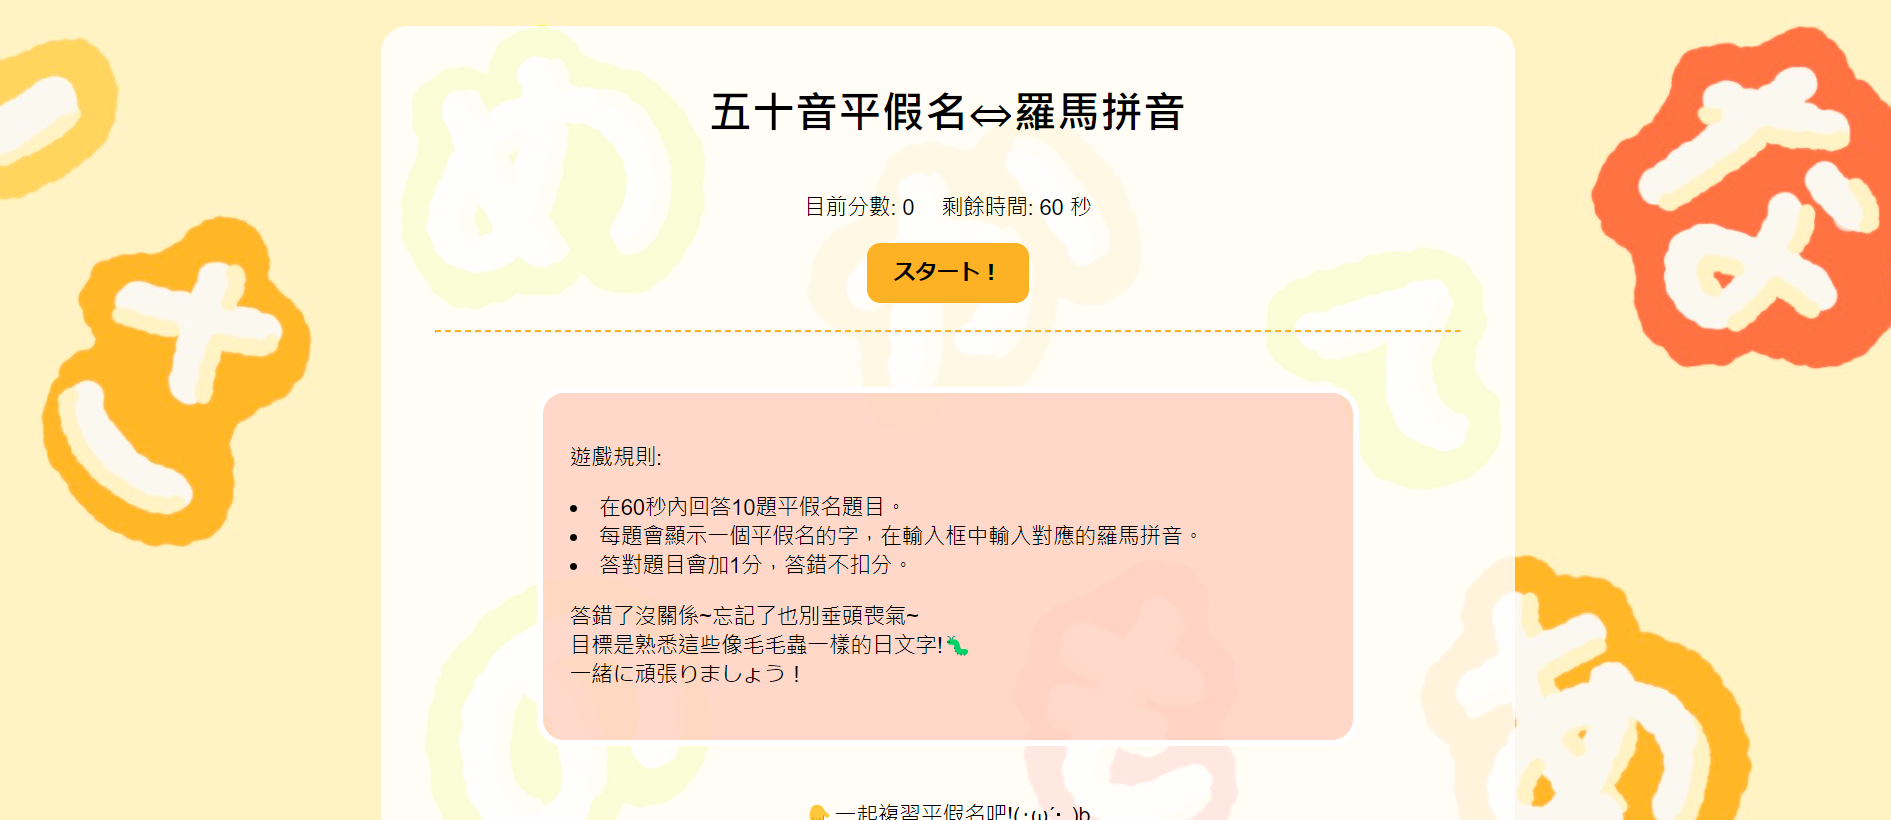
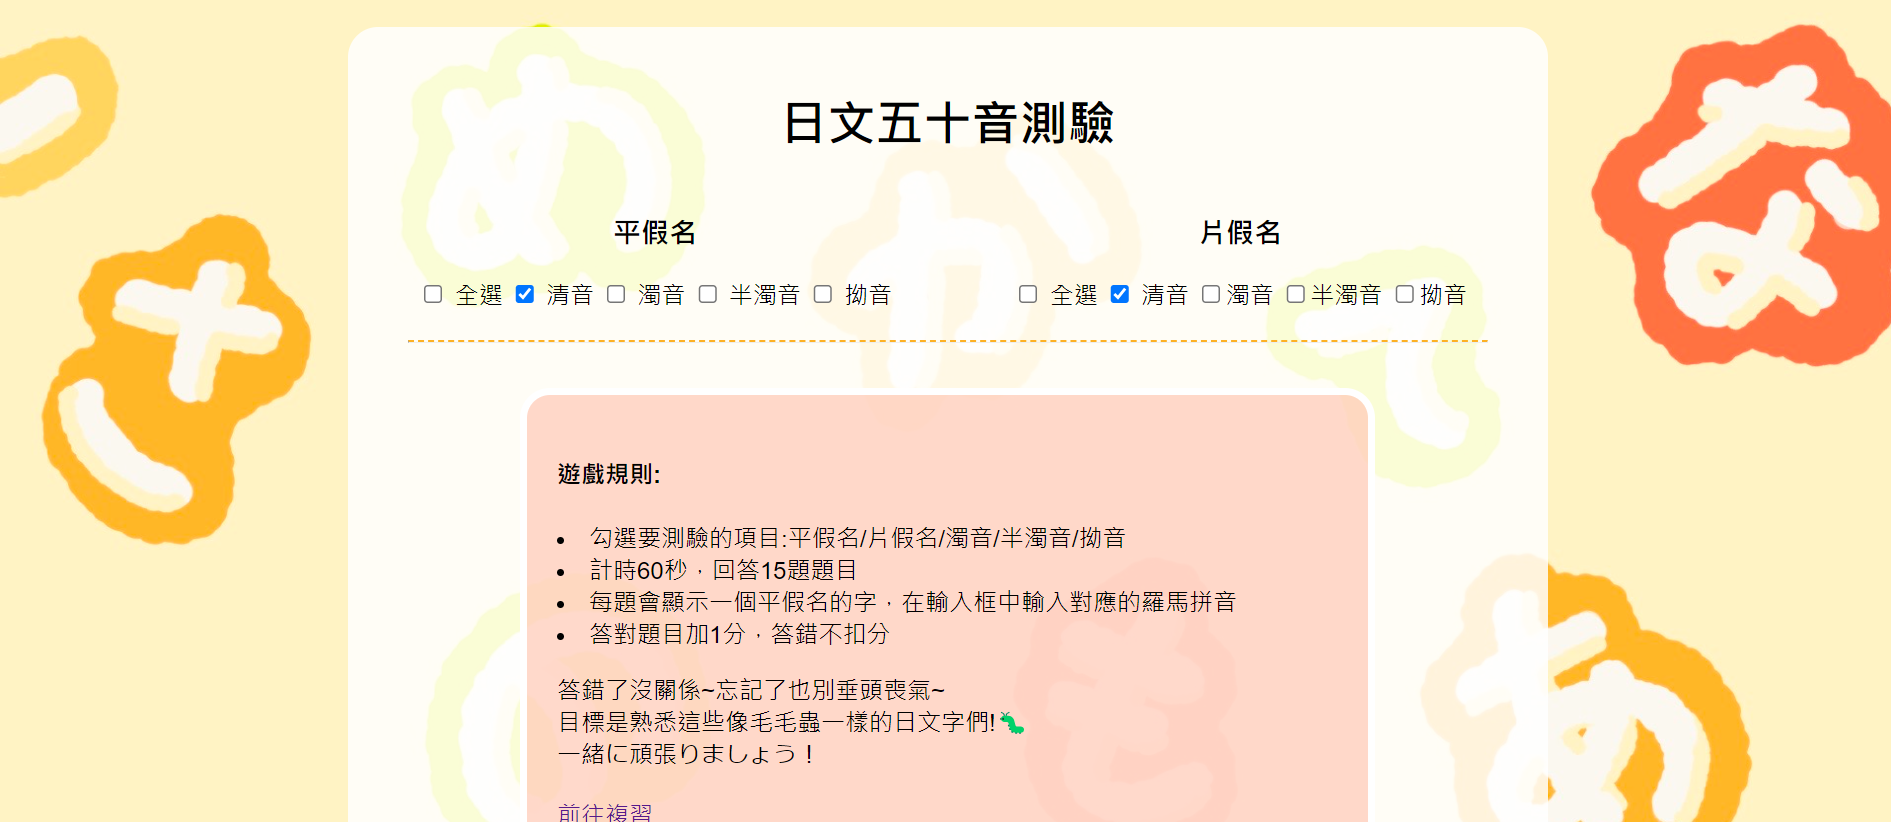
fix: 圖片路徑問題&readme文件

diff --git a/index.html b/index.html
@@ -5,7 +5,7 @@
     <meta charset="UTF-8">
     <meta name="viewport" content="width=device-width, initial-scale=1.0">
     <title>日文五十音測驗</title>
-    <link rel="icon" href="/image/icon.png">
+    <link rel="icon" href="./image/icon.png">
     <link rel="stylesheet" href="./css/index.css">
 </head>
 

diff --git a/css/form.css b/css/form.css
@@ -1,5 +1,5 @@
 body {
-    background-image: url(/image/background.jpg);
+    background-image: url(../image/background.jpg);
     background-size: cover;
     margin: 0;
     padding: 20px;

diff --git a/css/index.css b/css/index.css
@@ -3,7 +3,7 @@
 }
 
 body {
-  background-image: url(/image/background.jpg);
+  background-image: url(../image/background.jpg);
   background-size: cover;
   margin: 0;
   padding: 20px;

diff --git a/README.md b/README.md
@@ -1,9 +1,10 @@
-# 日文平假名轉羅馬拼音練習
+# 日文五十音測驗
 
 遊戲規則:
- - 在60秒內回答10題平假名題目。
- - 每題會顯示一個平假名的字，在輸入框中輸入對應的羅馬拼音。
- - 答對題目會加1分，答錯不扣分。
+ - 勾選要測驗的項目:平假名/片假名/濁音/半濁音/拗音
+ - 計時60秒，回答15題題目
+ - 每題會顯示一個日文字，在輸入框中輸入對應的羅馬拼音
+ - 答對題目加1分，答錯不扣分
 
  查看網站→ [Page](https://sanaaa1017.github.io/nihongo-game/)
 
@@ -11,9 +12,6 @@
 
 首頁
 ![首頁](web-image/home.png)
-
-平假名表格
-![平假名表格](web-image/form.png)
 
 進入遊戲
 ![進入遊戲](web-image/game-start.png)
